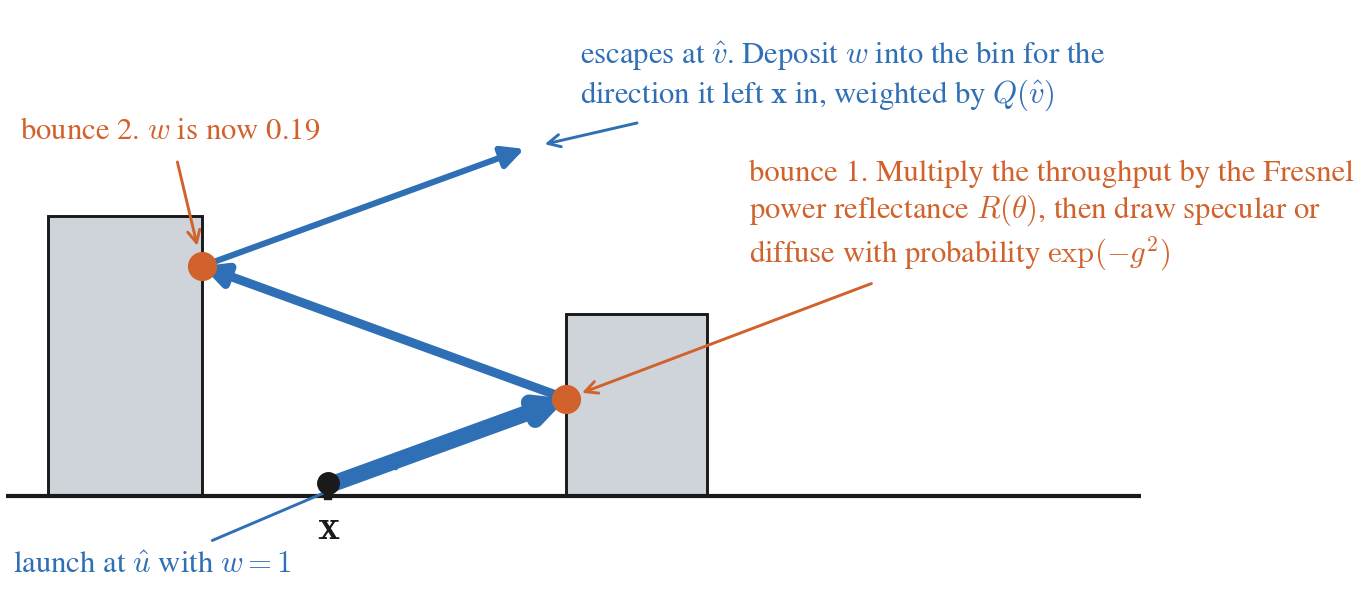
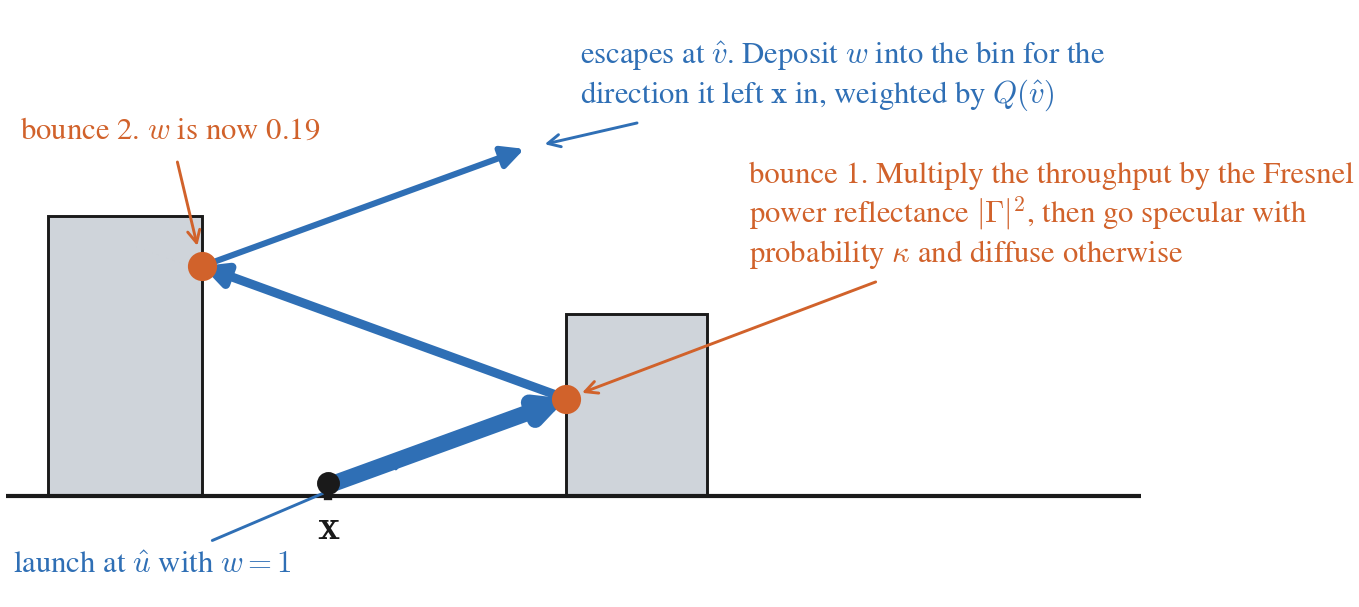
Match the ray figure's annotation to the paper's notation
It wrote the Fresnel term as R(theta) and the specular share as exp(-g^2)
with g defined nowhere. The paper calls them |Gamma|^2 and kappa. It also
said "draw specular or diffuse with probability exp(-g^2)", which does not
say which branch the probability belongs to.

Claude-Session: https://claude.ai/code/session_01CSwmwgV8t4pJkMVW7wFYTf

Changed region(s): [[0.5563, 0.2669, 0.989, 0.4448], [0.5563, 0.2669, 0.6181, 0.2965]]

diff --git a/papers/city-exposure-study/semantic_twin/FIGURES/make_explainer_figures.py b/papers/city-exposure-study/semantic_twin/FIGURES/make_explainer_figures.py
@@ -406,8 +406,8 @@ def one_ray() -> None:
 
     ax.annotate(
         "bounce 1. Multiply the throughput by the Fresnel\n"
-        "power reflectance $R(\\theta)$, then draw specular or\n"
-        "diffuse with probability $\\exp(-g^2)$",
+        "power reflectance $|\\Gamma|^2$, then go specular with\n"
+        "probability $\\kappa$ and diffuse otherwise",
         xy=tuple(p1),
         xytext=(60, 40),
         fontsize=7.4,
